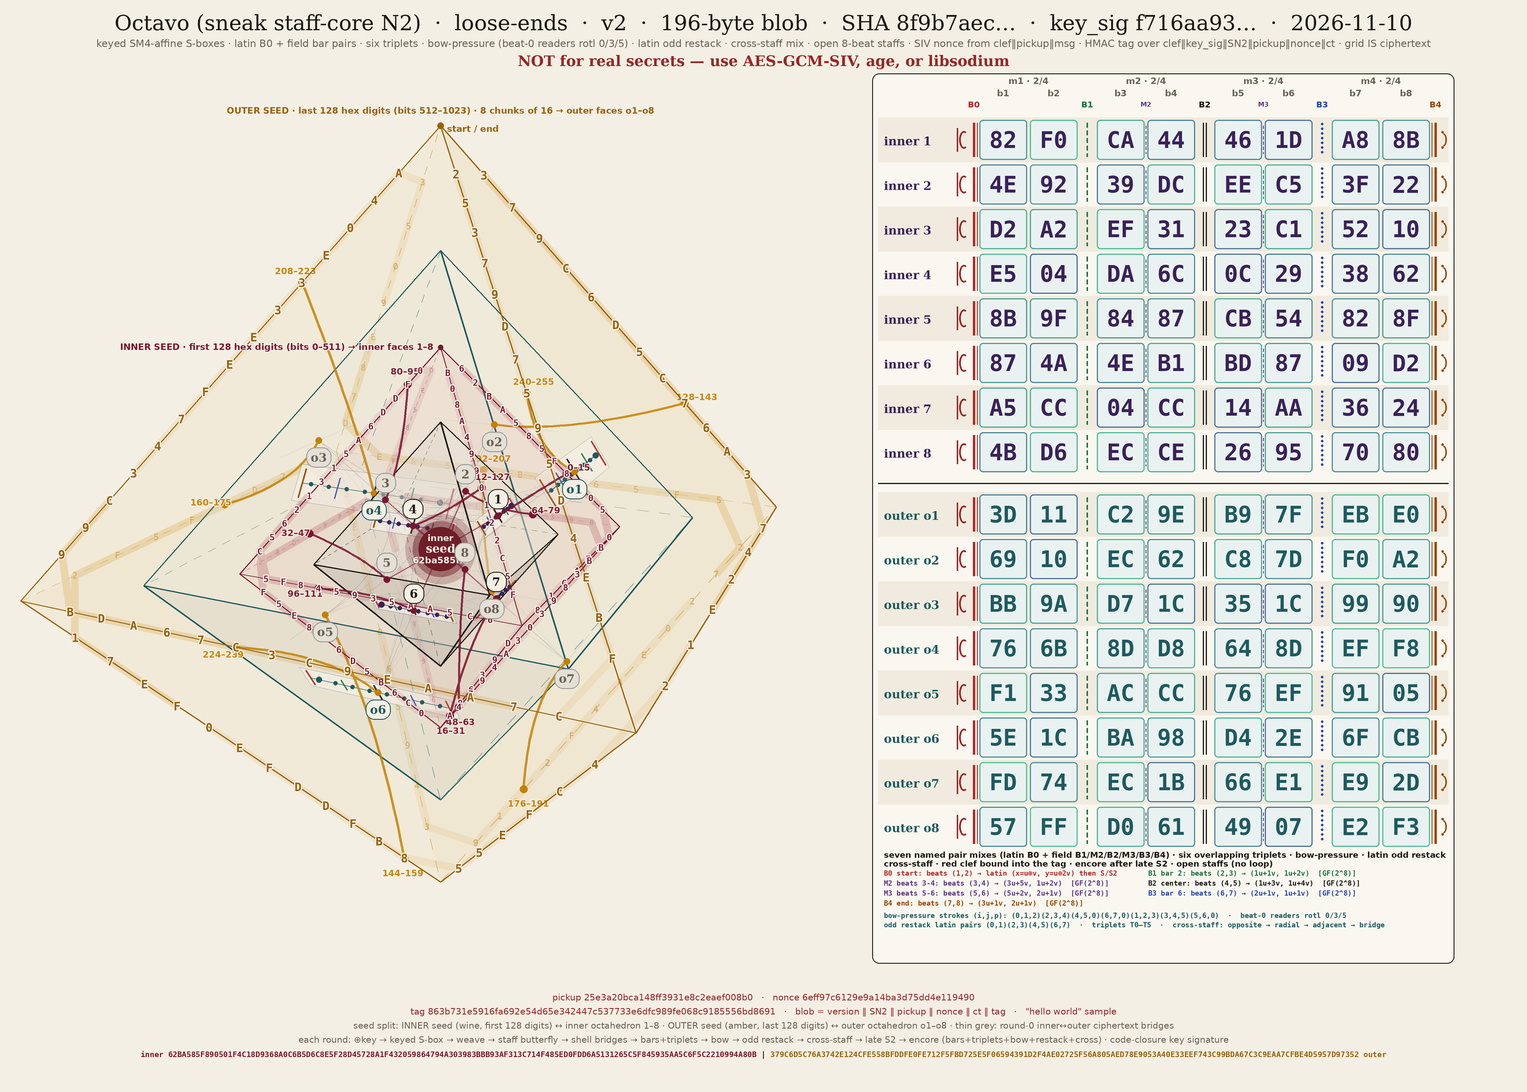
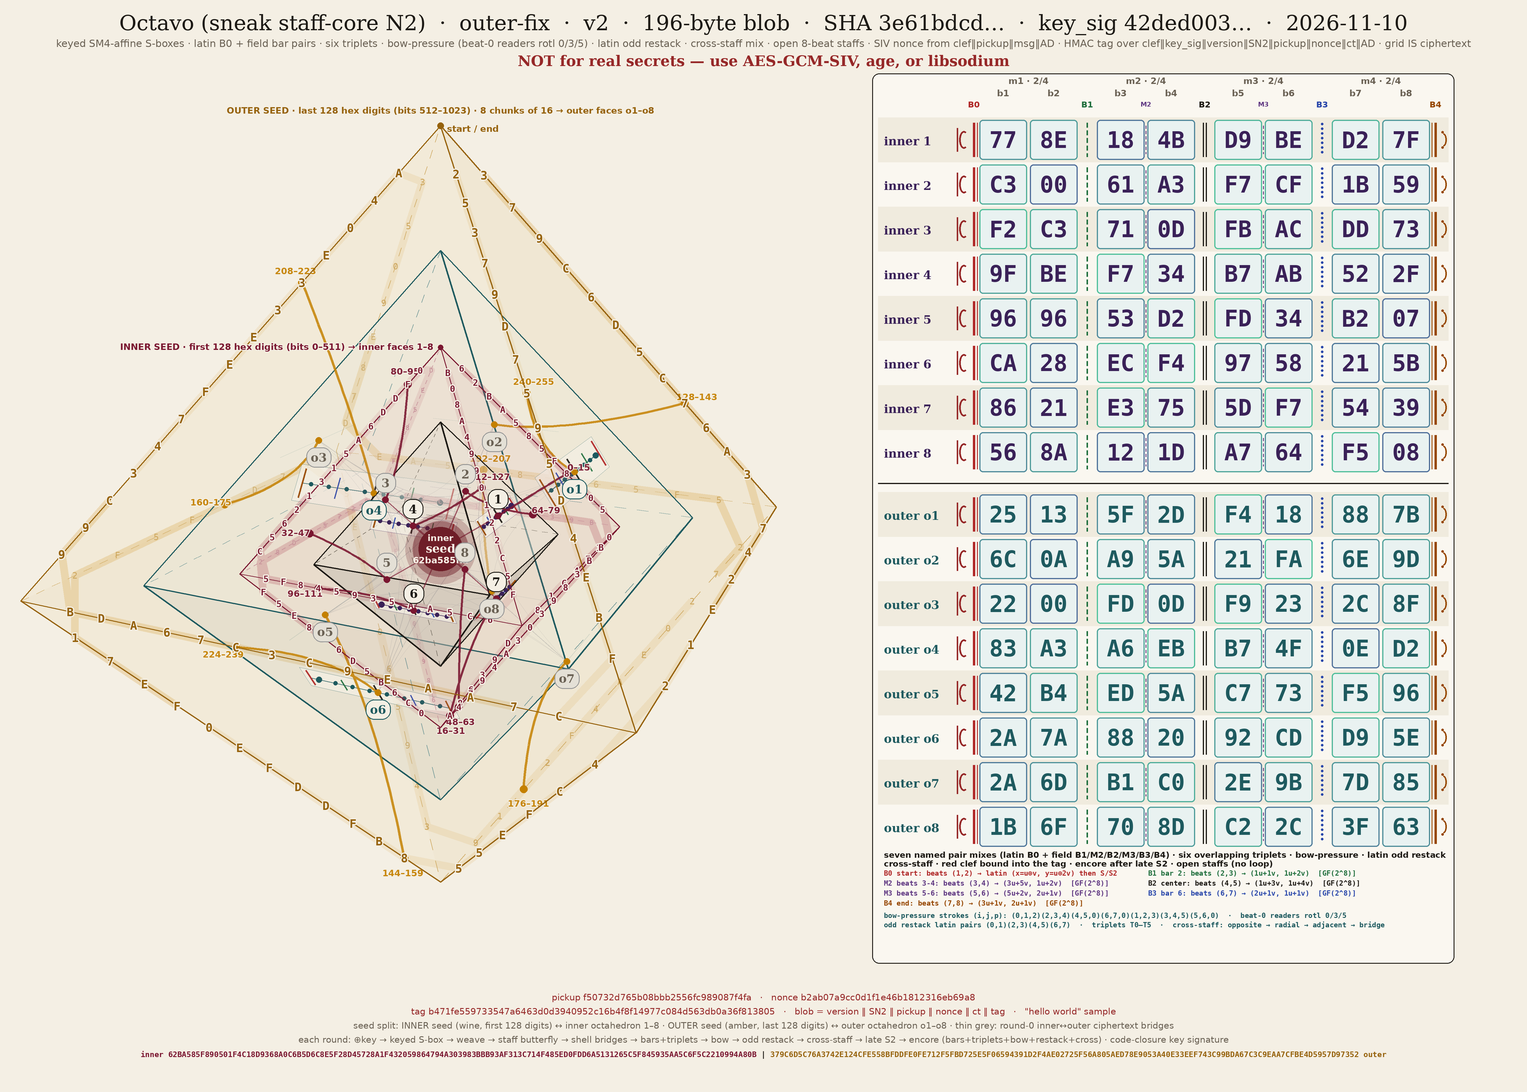
fix(outer): strict types, verify-before-schedule, cap AD, update FEATURES
Reject non-bytes-like msg/blob/ad with TypeError. Check the HMAC from
the MAC key before expanding Schedule. Cap associated data at 65536
bytes. Document the version byte and AD in FEATURES (REVISION=outer-fix).
Round function unchanged; key_sig and tags change as expected.

diff --git a/sneak_n2.py b/sneak_n2.py
@@ -20,6 +20,7 @@ NONCE_LEN, BLOCK_LEN, TAG_LEN = 16, 128, 32
 PICKUP_LEN = 16                   # hardened anacrusis: sha256(SN2/P || urandom || time_ns || counter || pid)[:16]
 BLOB_LEN = 1 + len(VERSION) + PICKUP_LEN + NONCE_LEN + BLOCK_LEN + TAG_LEN    # 196
 MAX_MSG = 127
+MAX_AD_LEN = 65536            # associated-data cap (bytes); encrypt and decrypt reject anything longer
 PK0, N0 = 1 + len(VERSION), 1 + len(VERSION) + PICKUP_LEN      # pickup = blob[4:20], nonce = blob[20:36]
 CT0, CT1 = N0 + NONCE_LEN, N0 + NONCE_LEN + BLOCK_LEN          # ct = blob[36:164], tag = blob[164:196]
 # Resolved next to this file so a clone works. The runtime absolute value is not attested
@@ -27,11 +28,11 @@ CT0, CT1 = N0 + NONCE_LEN, N0 + NONCE_LEN + BLOCK_LEN          # ct = blob[36:16
 SEED_PATH = os.path.join(os.path.dirname(os.path.abspath(__file__)), "sneak1024-seed.txt")
 # sha256(mix_description()) hex; used as the StaffSponge nonce for key_signature.
 # Excluded from attestation so this constant is not part of what it names (chicken-and-egg).
[2 lines of base64/hex data omitted]
 
 # Picture / documentation metadata. Not part of the mix or tag; excluded from
 # attestation so a label or feature-list edit does not change key_sig or ciphertext.
-REVISION = "loose-ends"
+REVISION = "outer-fix"
 REVISION_DATE = "2026-11-10"
 FEATURES = (
     "keyed SM4-affine S-boxes",
@@ -41,8 +42,8 @@ FEATURES = (
     "latin odd restack",
     "cross-staff mix",
     "open 8-beat staffs",
-    "SIV nonce from clef‖pickup‖msg",
-    "HMAC tag over clef‖key_sig‖SN2‖pickup‖nonce‖ct",
+    "SIV nonce from clef‖pickup‖msg‖AD",
+    "HMAC tag over clef‖key_sig‖version‖SN2‖pickup‖nonce‖ct‖AD",
     "grid IS ciphertext",
 )
 WARNING_LINE = "NOT for real secrets — use AES-GCM-SIV, age, or libsodium"
@@ -496,7 +497,7 @@ MIX_CODE_FUNCS = (
     "staff_mix", "staff_unmix", "shell_mix", "shell_unmix", "weave", "unweave", "xor_grid",
     "encrypt_grid", "decrypt_grid", "bytes_to_grid", "grid_to_bytes", "encode_block",
     "Schedule", "StaffSponge", "keyed_sbox", "mat_apply", "mat_invertible",
-    "staff_clef", "siv_nonce", "_tag", "_encode_ad", "_fresh_pickup", "encrypt", "decrypt", "split_blob",
+    "staff_clef", "siv_nonce", "_tag", "_encode_ad", "_as_bytes", "_normalize_ad", "_fresh_pickup", "encrypt", "decrypt", "split_blob",
     "key_signature", "mix_description", "mix_code_closure", "_referenced_globals", "_canon_data",
     "_seed_bytes", "load_seed", "AuthError", "DecodeError", "UnsupportedVersion",
 )
@@ -687,9 +688,22 @@ def staff_clef(seed=None) -> bytes:
     """seed-only clef: StaffSponge(b"C", seed, 16 zero bytes).take(16). Never stored in the blob."""
     return StaffSponge(b"C", _seed_bytes(seed), bytes(NONCE_LEN)).take(16)
 
+def _as_bytes(name, value) -> bytes:
+    """Accept bytes, bytearray, or memoryview; reject anything else with TypeError."""
+    if isinstance(value, (bytes, bytearray, memoryview)):
+        return bytes(value)
+    raise TypeError("%s must be bytes-like, not %s" % (name, type(value).__name__))
+
+def _normalize_ad(ad) -> bytes:
+    """Type-check associated data and enforce MAX_AD_LEN."""
+    ad = _as_bytes("ad", ad)
+    if len(ad) > MAX_AD_LEN:
+        raise ValueError("associated data too long (max %d bytes)" % MAX_AD_LEN)
+    return ad
+
 def _encode_ad(ad: bytes = b"") -> bytes:
     """Unambiguous associated-data encoding: uint64be(len(ad)) || ad. Not stored in the blob."""
-    ad = bytes(ad)
+    ad = _normalize_ad(ad)
     return len(ad).to_bytes(8, "big") + ad
 
 def _fresh_pickup() -> bytes:
@@ -705,9 +719,11 @@ _fresh_pickup.n = 0
 
 def siv_nonce(msg: bytes, pickup: bytes, seed=None, ad: bytes = b"") -> bytes:
     """homemade SIV-style nonce = SHA-256(clef || pickup || encode_block(msg) || encode_ad(ad))[:16]"""
-    pickup = bytes(pickup)
+    msg = _as_bytes("msg", msg)
+    pickup = _as_bytes("pickup", pickup)
+    ad = _normalize_ad(ad)
     if len(pickup) != PICKUP_LEN: raise ValueError("pickup must be 16 bytes")
-    return hashlib.sha256(staff_clef(seed) + pickup + encode_block(bytes(msg)) + _encode_ad(ad)).digest()[:NONCE_LEN]
+    return hashlib.sha256(staff_clef(seed) + pickup + encode_block(msg) + _encode_ad(ad)).digest()[:NONCE_LEN]
 
 def _tag(mac_key, pickup, nonce, ct, clef, key_sig, ad: bytes = b""):
     return hmac.new(mac_key, clef + key_sig + bytes([FMT_VERSION]) + VERSION + pickup + nonce + ct + _encode_ad(ad), hashlib.sha256).digest()
@@ -716,11 +732,13 @@ def encrypt(msg: bytes, seed=None, nonce: bytes = None, ad: bytes = b"") -> byte
     """blob = version(1) || b"SN2" || pickup(16) || nonce(16) || ct(128) || HMAC-SHA256(mac_key, clef || key_sig || version || b"SN2" || pickup || nonce || ct || encode_ad(ad)).
     pickup = _fresh_pickup() every call (no public pickup argument, by design);
     nonce = SHA-256(clef || pickup || encode_block(msg) || encode_ad(ad))[:16]; a caller nonce must equal it (ValueError otherwise).
-    ad is authenticated and not stored in the blob; empty and omitted AD are the same."""
-    msg = bytes(msg); ad = bytes(ad); block = encode_block(msg); adb = _encode_ad(ad); clef = staff_clef(seed)
+    ad is authenticated and not stored in the blob; empty and omitted AD are the same.
+    msg and ad must be bytes-like (bytes, bytearray, memoryview); other types raise TypeError.
+    Associated data longer than MAX_AD_LEN raises ValueError."""
+    msg = _as_bytes("msg", msg); ad = _normalize_ad(ad); block = encode_block(msg); adb = _encode_ad(ad); clef = staff_clef(seed)
     pickup = _fresh_pickup()
     syn = hashlib.sha256(clef + pickup + block + adb).digest()[:NONCE_LEN]
-    if nonce is not None and not hmac.compare_digest(bytes(nonce), syn):
+    if nonce is not None and not hmac.compare_digest(_as_bytes("nonce", nonce), syn):
         raise ValueError("nonce must be the synthetic (SIV) nonce for this message and pickup")
     nonce = syn
     sch = Schedule(seed, nonce)
@@ -733,15 +751,19 @@ def split_blob(blob: bytes):
 
 def decrypt(blob: bytes, seed=None, ad: bytes = b"") -> bytes:
     """Format version is checked first, then length, then the tag (constant-time compare). On any mismatch: AuthError, no payload.
-    The same associated data supplied to encrypt must be supplied here; it is not in the blob."""
-    blob = bytes(blob); ad = bytes(ad)
+    The same associated data supplied to encrypt must be supplied here; it is not in the blob.
+    blob and ad must be bytes-like; other types raise TypeError. AD longer than MAX_AD_LEN raises ValueError.
+    The HMAC is verified from the MAC key alone; the full round Schedule is built only after the tag passes."""
+    blob = _as_bytes("blob", blob); ad = _normalize_ad(ad)
     if len(blob) < 1: raise AuthError("bad blob length")
     if blob[0] != FMT_VERSION: raise UnsupportedVersion("unsupported version")
     if len(blob) != BLOB_LEN: raise AuthError("bad blob length")
     v, pickup, nonce, ct, tag = split_blob(blob)
     if not hmac.compare_digest(v, bytes([FMT_VERSION]) + VERSION): raise AuthError("bad version prefix")
-    clef = staff_clef(seed); sch = Schedule(seed, nonce)
-    if not hmac.compare_digest(tag, _tag(sch.mac_key, pickup, nonce, ct, clef, key_signature(seed), ad)): raise AuthError("tag mismatch")
+    clef = staff_clef(seed)
+    mac_key = StaffSponge(b"M", _seed_bytes(seed), nonce).take(32)
+    if not hmac.compare_digest(tag, _tag(mac_key, pickup, nonce, ct, clef, key_signature(seed), ad)): raise AuthError("tag mismatch")
+    sch = Schedule(seed, nonce)
     b = grid_to_bytes(decrypt_grid(bytes_to_grid(ct), sch))
     L = b[0]                                   # secondary sanity check only; the MAC is the authenticity check
     if L > MAX_MSG or any(b[1 + L:]): raise DecodeError("tag valid but block malformed")

diff --git a/test_sneak_n2.py b/test_sneak_n2.py
@@ -947,8 +947,8 @@ check("closure includes staff_mix/staff_unmix/shell_mix/shell_unmix/weave/unweav
 check("module data hashed includes BARS, BARS_INV, TRIPLETS(_INV), CROSS_*, BOW_* (incl. BOW_PRESSURE_ROT), LAYERS, SM4_SBOX, _GF_MUL, MIX2_*, sizes",
       {"BARS","BARS_INV","TRIPLETS","TRIPLETS_INV","CROSS_OPPOSITE","CROSS_RADIAL","CROSS_ADJACENT","CROSS_BRIDGE","CROSS_LAYERS",
        "BOW_STROKES","BOW_PRESSURE_ROT","BOW_ROT_BASE","BOW_ROT_MOD","BOW_R2_SHIFT","LAYERS","SM4_SBOX","_GF_MUL","MIX2_MATRIX","MIX2_INV","FIELD_POLY",
-       "NF","NB","NR","BLOCK_LEN","VERSION"} <= reach_data and json.loads(N.mix_description())["mix_data"]["names"]==sorted(reach_data)
-      and len(reach_data)==36)
+       "NF","NB","NR","BLOCK_LEN","VERSION","MAX_AD_LEN"} <= reach_data and json.loads(N.mix_description())["mix_data"]["names"]==sorted(reach_data)
+      and len(reach_data)==37)
 def frame(h,parts):
     for part in parts: b=part.encode(); h.update(len(b).to_bytes(8,"big")); h.update(b)
 desc5=json.loads(N.mix_description())
@@ -1223,6 +1223,58 @@ check("triplet last-row-zero throwaway (T0.M[2][2] 2->0) fails the all-entries-n
       and _t0z.TRIPLETS[0][2][2][2] == 0
       and N.TRIPLETS[0][2][2][2] == 2)
 print(f"test-gap checks wall time: {_tg_time.perf_counter() - _tg_t0:.2f}s")
+
+# ---- outer-layer fixes (strict types, verify-before-expand, AD cap, FEATURES)
+_bad_types = (5, 0, [104, 105], "hi", None)
+check("encrypt rejects int/list/str/None msg with TypeError (no bytes() coercion)",
+      all(isinstance(catch(lambda m=m: N.encrypt(m, SEED)), TypeError) for m in _bad_types))
+check("encrypt rejects int/list/str/None ad with TypeError (no bytes() coercion)",
+      all(isinstance(catch(lambda a=a: N.encrypt(b"x", SEED, ad=a)), TypeError) for a in (3, 0, [1, 2], "ad", None)))
+check("decrypt rejects int/list/str/None blob with TypeError",
+      all(isinstance(catch(lambda b=b: N.decrypt(b, SEED)), TypeError) for b in _bad_types))
+check("decrypt rejects int/list/str/None ad with TypeError",
+      all(isinstance(catch(lambda a=a: N.decrypt(HW_BLOB, SEED, ad=a)), TypeError) for a in (3, 0, [1, 2], "ad", None)))
+check("encrypt/decrypt accept bytearray and memoryview for msg, blob, and ad",
+      N.decrypt(bytearray(N.encrypt(bytearray(b"hi"), SEED, ad=memoryview(b"ad"))), SEED, ad=bytearray(b"ad")) == b"hi"
+      and N.decrypt(memoryview(N.encrypt(memoryview(b"ok"), SEED, ad=bytearray(b""))), SEED) == b"ok")
+check("explicit ad=None is TypeError, not empty AD",
+      isinstance(catch(lambda: N.encrypt(b"x", SEED, ad=None)), TypeError)
+      and N.decrypt(N.encrypt(b"x", SEED), SEED, ad=b"") == b"x")
+
+check("MAX_AD_LEN is 65536 and is enforced on encrypt and decrypt",
+      N.MAX_AD_LEN == 65536)
+_ad_max = b"A" * N.MAX_AD_LEN
+check("AD of exactly MAX_AD_LEN round-trips",
+      N.decrypt(N.encrypt(b"cap", SEED, ad=_ad_max), SEED, ad=_ad_max) == b"cap")
+_e_ad = catch(lambda: N.encrypt(b"x", SEED, ad=b"A" * (N.MAX_AD_LEN + 1)))
+_e_ad_d = catch(lambda: N.decrypt(HW_BLOB, SEED, ad=b"A" * (N.MAX_AD_LEN + 1)))
+check("AD of MAX_AD_LEN+1 raises ValueError on encrypt and decrypt",
+      isinstance(_e_ad, ValueError) and "associated data too long" in str(_e_ad)
+      and isinstance(_e_ad_d, ValueError) and "associated data too long" in str(_e_ad_d))
+
+_seen = []
+_orig_sch = N.Schedule.__init__
+def _sch_probe(self, seed, nonce):
+    _seen.append("Schedule")
+    return _orig_sch(self, seed, nonce)
+N.Schedule.__init__ = _sch_probe
+try:
+    _bad = bytearray(HW_BLOB); _bad[-1] ^= 1
+    _e_bad = catch(lambda: N.decrypt(bytes(_bad), SEED))
+    _n_bad = list(_seen)
+    _seen.clear()
+    _ok = N.decrypt(HW_BLOB, SEED)
+    _n_good = list(_seen)
+finally:
+    N.Schedule.__init__ = _orig_sch
+check("bad tag is rejected without building Schedule; a valid blob still builds Schedule then decrypts",
+      isinstance(_e_bad, N.AuthError) and str(_e_bad) == "tag mismatch"
+      and _n_bad == [] and _n_good == ["Schedule"] and _ok == b"hello world")
+
+check("FEATURES mention the version byte and AD in the HMAC description, and AD in the SIV nonce",
+      any("HMAC" in f and "version" in f and "AD" in f for f in N.FEATURES)
+      and any("SIV" in f and "AD" in f for f in N.FEATURES)
+      and N.REVISION == "outer-fix" and N.REVISION_DATE == "2026-11-10")
 
 # ---- picture header stays in sync with the live module and hello-world sample
 # render_n2.py writes sneak-staff-n2.json beside the PNG with the file SHA, key_sig,

diff --git a/README.md b/README.md
@@ -1,49 +1,37 @@
-<p align="center"><img src="sneak-staff-n2.png" alt="Octavo: dual octahedra seed shells and the 16-staff by 8-beat hex grid of the hello-world ciphertext" width="100%"></p>
+## Current live revision — outer-layer fixes (2026-11-10)
 
-# Octavo
+This section supersedes the unused-B0 attestation section below. The round
+function is unchanged from that revision (and from octavo006). Still N2 / SN2
+(project name: Octavo), still homemade, **not for real secrets** (use AES-GCM-SIV,
+age or libsodium). The picture was redrawn from the new hello-world sample.
 
-**Octavo** is an experimental homemade block cipher with a 1024-bit block and a 1024-bit key, built like a piece of music: 16 staffs of 8 beats, mixed by keyed S-boxes, field "bar" pairs, overlapping triplets, a bow-pressure ARX layer and a cross-staff mix. Every message is authenticated (SIV-style nonce plus an HMAC-SHA256 tag). The picture above draws the key as two octahedra and the hello-world ciphertext as a hex grid. The code files are still named `sneak_n2`, its working name.
+These are the four wrapper fixes suggested by `attacks_octavo_outer/REPORT.md`:
 
-> **Not for real secrets.** Octavo has had no independent expert review. For real data use AES-GCM-SIV, [age](https://age-encryption.org) or [libsodium](https://doc.libsodium.org). See [SECURITY.md](SECURITY.md).
+- `encrypt` / `decrypt` (and `siv_nonce`) accept only bytes-like `msg`, `blob`,
+  and `ad` (`bytes`, `bytearray`, `memoryview`). Integers, lists, strings and
+  `None` raise `TypeError`, so `ad=3` is no longer three NUL bytes and
+  `encrypt(5)` is no longer five NULs. Omitted AD still defaults to `b""`.
+- `decrypt` derives only the MAC key (`StaffSponge` domain `b"M"`) and checks
+  the HMAC before building the full per-nonce `Schedule`. A garbage blob is
+  rejected without expanding 16 rounds of key material.
+- Associated data longer than `MAX_AD_LEN` (65536 bytes) raises `ValueError` on
+  both encrypt and decrypt.
+- `FEATURES` now mentions the format-version byte and associated data in the
+  HMAC and SIV descriptions. `REVISION` is `outer-fix`.
 
-## Quick start
+Because `encrypt`, `decrypt`, `siv_nonce` and `_encode_ad` changed (and two
+helpers plus `MAX_AD_LEN` were added), `EXPECTED_MIX_SHA256`, `key_signature`,
+and every tag changed. Previous unused-B0 / octavo006 blobs (format version 2,
+same mix as each other) fail with **tag mismatch**. The blob format is still
+version 2 (196 bytes). `demo-nonce.txt` is unchanged.
 
-Pure Python 3, no dependencies.
[2 lines of base64/hex data omitted]
+- key_sig (demo seed): `42ded003543b35fa0695a2e767f4415e`.
+- hello-world pickup `f50732d765b08bbb2556fc989087f4fa`, nonce `b2ab07a9cc0d1f1e46b1812316eb69a8` (empty AD; see `hello-world.txt`).
+- Blob size: 196 bytes, version byte 2. Picture redrawn (`sneak-staff-n2.png`).
 
-```python
-import os
-from sneak_n2 import encrypt, decrypt
-
-key = os.urandom(128)                  # 1024-bit key
-blob = encrypt(b"meet at noon", key)   # 196-byte blob: version 2 | SN2 | pickup | nonce | ciphertext | tag
-print(decrypt(blob, key))              # b'meet at noon'
-# optional associated data (authenticated, not stored in the blob):
-sealed = encrypt(b"meet at noon", key, ad=b"from:alice")
-print(decrypt(sealed, key, ad=b"from:alice"))
-```
-
-Messages are limited to one block (127 bytes). Associated data is optional. `sneak1024-seed.txt` is the public demo key used for `hello-world.txt`; never use it for anything else. Run `python3 quick_check.py` for a portable sanity check. The full `test_sneak_n2.py` suite runs on a fresh clone (historical `/tmp` comparisons are skipped when those copies are missing).
-
-## What's here
-
-| File | What it is |
-|---|---|
-| `sneak_n2.py` | The cipher |
-| `SPEC.md` | Full design spec and the reasoning behind each layer |
-| `ATTACKS.md` | All ten attack rounds, what each found and what was fixed |
-| `attacks_octavo_beat6/` | The latest full attack report, with replay scripts |
-| `fix_beat0rot_verification/` | Verification of the latest fix |
-| `render_n2.py` | Draws the picture |
-
-## Try to break it
-
-Attacks are welcome. The most promising open leads are listed in [the latest report](attacks_octavo_beat6/REPORT.md) and include the shared beat-0 rotations (now hardened but not yet re-attacked), layer-level linear relations, and the partial proof on beat 2. Open an issue with a reproducing script, and credible results get credited in `ATTACKS.md`.
-
-The rest of this README is the author's detailed revision log.
-
----
-
-## Current live revision — unused-B0 attestation and picture (2026-11-10)
+## Previous revision — unused-B0 attestation and picture (2026-11-10)
 
 This section supersedes the seed-only path below. The round function is
 unchanged from the seed-only revision, the info-fix revision, the packaging
@@ -188,8 +176,6 @@ Older 195-byte `SN2...` blobs now fail with **unsupported version**, not
 "tag mismatch". This revision's tags also differ because the attested
 `mix_description` and the `key_signature` sponge nonce changed.
 
-
----
 
 # Sneak staff-core N2 (8-bit cells)
 

diff --git a/SNAPSHOT.md b/SNAPSHOT.md
@@ -1,16 +1,28 @@
-# octavo006 — frozen Octavo snapshot
+# Live tree note (not a freeze)
 
-Saved 2026-11-10 from live /workspace/sneak_n2 (Python caches excluded), plus sneak1024-seed.txt.
+Live `/workspace/sneak_n2` is the outer-fix revision (2026-11-10)
+on top of the unused-B0 / seed-only tree. The round function is unchanged.
+The picture header is generated from live module metadata so a re-render stays current.
 
-This is the unused-B0 attestation and picture revision on top of octavo005 (seed-only). The round function is unchanged from octavo005. The picture was redrawn from the new hello-world sample.
+- sneak_n2.py SHA-256: 3e61bdcd151771001b9d0e0307bde5d2f373a1fa31c21ccb173b110e958cb7ed
+- EXPECTED_MIX_SHA256: 389b90afbc68ab02636b922a0331a7d7ed4f55d97db164a044cfbe1a096d1641
+- key_sig (demo seed): 42ded003543b35fa0695a2e767f4415e
+- hello-world pickup f50732d765b08bbb2556fc989087f4fa, nonce b2ab07a9cc0d1f1e46b1812316eb69a8 (empty AD)
+- Changes: strict bytes-like msg/blob/ad (TypeError otherwise); decrypt verifies HMAC from the MAC key before building Schedule; MAX_AD_LEN=65536; FEATURES mention version byte and AD; REVISION=outer-fix; regenerate hello-world.txt; redraw sneak-staff-n2.png.
 
-- sneak_n2.py SHA-256: 3eb1da8fd3aec1c9b76a1e962b0973cdde15224e895672fad0aca0ba75f8798d
-- EXPECTED_MIX_SHA256: a368523b89b85d2e7bbfa2f0c0934086c1908b83fac55d68b79d356e1a00f1b1
-- key_sig (demo seed): f716aa939283e46ea7760717a22a7307
-- Tests at freeze: 258/258 (0 skipped on the author's machine)
+# octavo004 — frozen Octavo snapshot
+
+Saved 2026-11-09 from live /workspace/sneak_n2 (Python caches excluded), plus sneak1024-seed.txt.
+
+This is the info-fix revision on top of octavo003 (packaging). The round function is unchanged.
+
+- sneak_n2.py SHA-256: 2d7c18e2c9a00146361bc7cdf0708af181fb692a1c121aadb200af1cc3a6a39f
+- EXPECTED_MIX_SHA256: 8c12ae0d2a88b0aed3bf6d14e2031903a18d801ee5c7f56c7fc34cb7437ac31c
+- key_sig (demo seed): 6fcc97151089539a8084e4cc3886921a
+- Tests at freeze: 253/253 (0 skipped on the author's machine)
 - Blob size: 196 bytes (version byte 2 || SN2 || pickup || nonce || ct || tag)
-- hello-world pickup 25e3a20bca148ff3931e8c2eaef008b0, nonce 6eff97c6129e9a14ba3d75dd4e119490 (empty AD)
-- Changes: drop the unused B0 field matrix from BARS and BARS_INV (both slots are None) so it is no longer hashed into key_signature; _canon_data encodes set/frozenset/bytearray/memoryview/float/complex deterministically and still raises TypeError for any other type; regenerate hello-world.txt; redraw sneak-staff-n2.png; render_n2.py resolves paths from the script folder, reads hello-world fields from the start of their lines, and prepends FMT_VERSION. Round function unchanged vs octavo005.
-- Picture redrawn from this sample.
+- hello-world pickup 3f703b2e5515d2613767372de752343e, nonce 0a08ea35ec9a2ac650773b407f6d93df (empty AD)
+- Changes: hardened pickup (sha256 of urandom || time_ns || counter || pid); optional associated data bound into the SIV nonce and HMAC with uint64be length prefix; FMT_VERSION = 2; documented constant-time and single-block limits. Round function unchanged vs octavo003.
+- Picture not redrawn.
 
 Homemade, NOT for real secrets. Use AES-GCM-SIV, age, or libsodium.

diff --git a/SPEC.md b/SPEC.md
@@ -1,4 +1,58 @@
-## Current live revision — unused-B0 attestation and picture (2026-11-10)
+## Current live revision — outer-layer fixes (2026-11-10)
+
+Wrapper fixes only: the 16-round function, S-boxes, schedule, mixes, bow,
+rehair and cross-staff layers are unchanged from the unused-B0 attestation
+revision, the seed-only revision, and octavo006.
+Still homemade. **Not for real secrets.** Use AES-GCM-SIV, age or libsodium.
+The picture was redrawn from the new hello-world sample.
+
+These close the two Minor findings and the FEATURES/AD-cap Info items from
+`attacks_octavo_outer/REPORT.md`.
+
+### Strict bytes-like inputs
+
+`encrypt(msg, seed=None, nonce=None, ad=b"")` and `decrypt(blob, seed=None, ad=b"")`
+require `msg`, `blob` and `ad` to be `bytes`, `bytearray` or `memoryview`.
+Anything else, including `int`, `list`, `str` and `None`, raises `TypeError`.
+Omitted AD still defaults to `b""`; empty and omitted AD remain the same.
+`siv_nonce` applies the same rule to `msg`, `pickup` and `ad`.
+
+### Verify the tag before expanding the schedule
+
+`decrypt` now computes `mac_key = StaffSponge(b"M", seed, nonce).take(32)` and
+checks the HMAC with `compare_digest` before constructing `Schedule`. The tag
+string is unchanged: `clef || key_sig || version || SN2 || pickup || nonce || ct || encode_ad(ad)`.
+On a mismatch the full 16-round schedule is never built. A valid blob still
+builds `Schedule` after the tag passes (the MAC key is derived again inside
+`Schedule`, same as before).
+
+### Associated-data length cap
+
+`MAX_AD_LEN = 65536`. Longer AD raises `ValueError("associated data too long
+(max 65536 bytes)")` on encrypt and decrypt, before the tag is checked.
+
+### FEATURES
+
+The picture-header strings now say `SIV nonce from clef‖pickup‖msg‖AD` and
+`HMAC tag over clef‖key_sig‖version‖SN2‖pickup‖nonce‖ct‖AD`. `REVISION` is
+`outer-fix` (2026-11-10). Those labels remain in `_ATTEST_SKIP`.
+
+Because the attested wrapper source and `MAX_AD_LEN` changed,
+`sha256(mix_description())` changed, so `EXPECTED_MIX_SHA256`, `key_signature`,
+and every HMAC tag changed. Previous unused-B0 / octavo006 version-2 blobs fail
+with **tag mismatch**. The blob format is still version 2 (196 bytes).
+`demo-nonce.txt` is unchanged.
+
+### Identifiers
+
[2 lines of base64/hex data omitted]
+- key_sig (demo seed): `42ded003543b35fa0695a2e767f4415e`
+- hello-world pickup `f50732d765b08bbb2556fc989087f4fa`, nonce `b2ab07a9cc0d1f1e46b1812316eb69a8` (empty AD)
+
+---
+
+## Previous revision — unused-B0 attestation and picture (2026-11-10)
 
 Attestation and picture only: the 16-round function, S-boxes, schedule, mixes,
 bow, rehair and cross-staff layers are unchanged from the seed-only revision,
